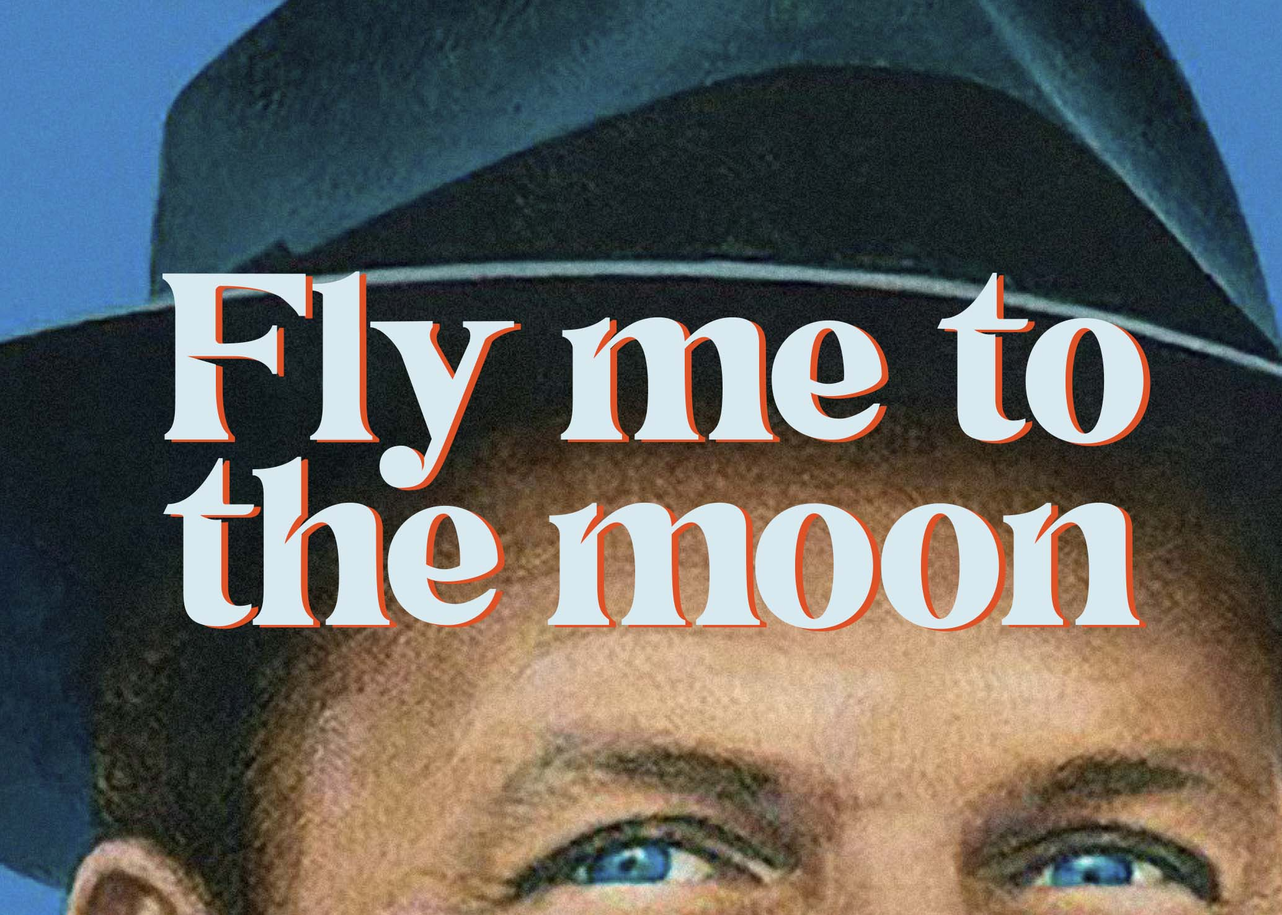
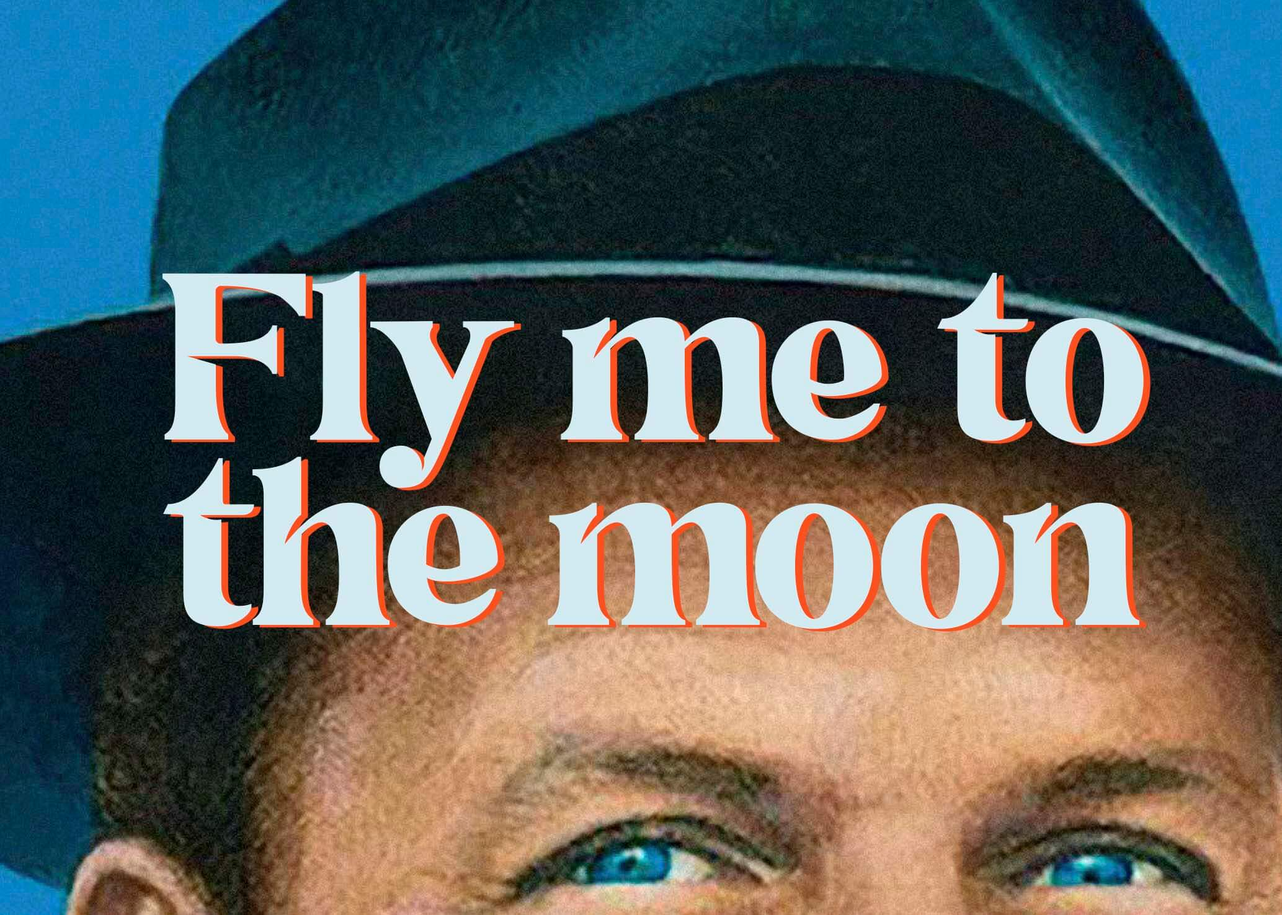
updated

diff --git a/index.html b/index.html
@@ -246,7 +246,7 @@
                            <!-- Modal body -->
                            <div class="modal-body">
                                 <button type="button" class="close close-bottom-modal" data-dismiss="modal">&times;</button>
-                                <img src="images/portfolio/typeface-design/content pages-arabic-typeface.webp" alt="">
+                                <img src="images/portfolio/typeface-design/content-arabic.jpg" alt="">
                                 <div class="col-lg-12">
                                     <img src="images/portfolio/typeface-design/font.gif">
                                 </div>
